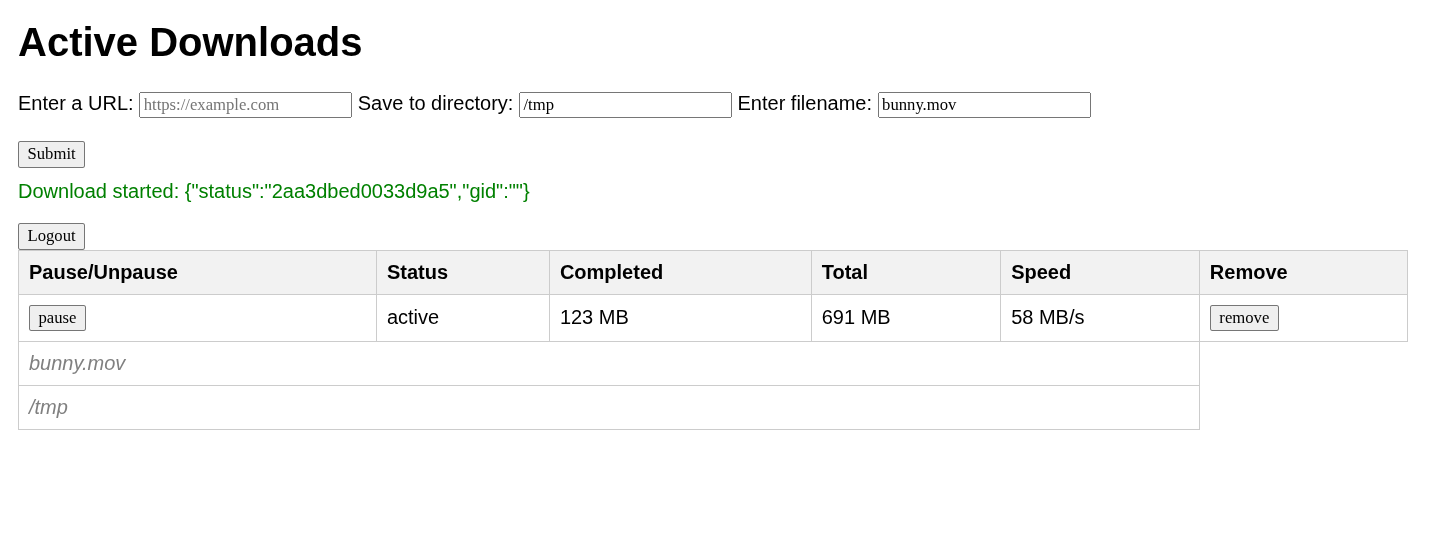
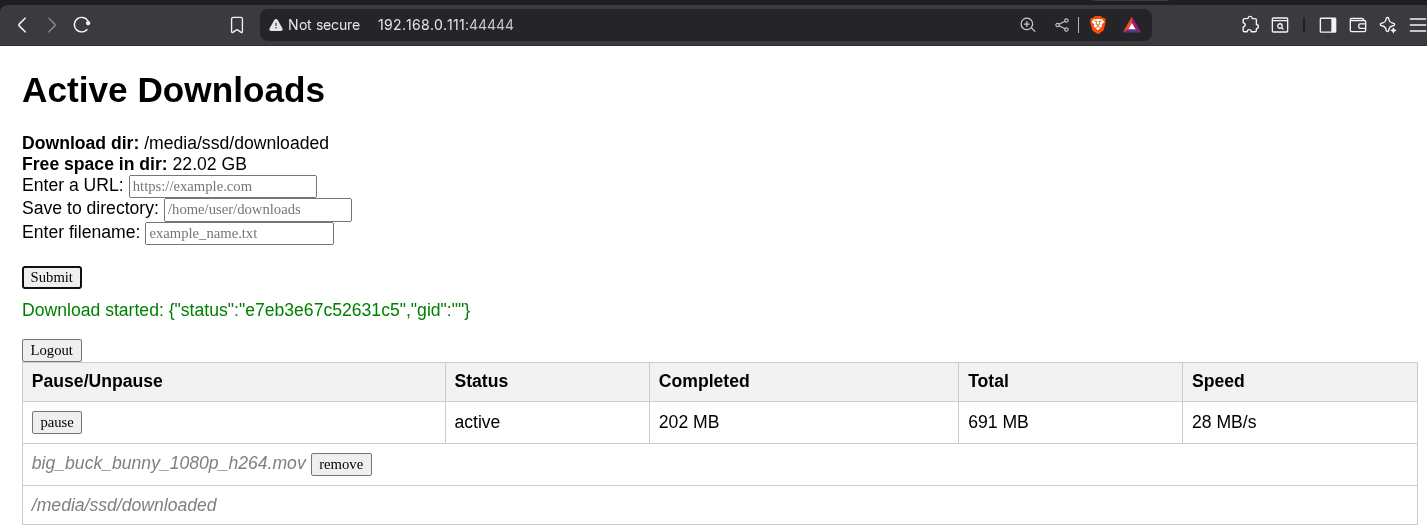
every input field in html is in newline

diff --git a/internal/server/index.html b/internal/server/index.html
@@ -45,6 +45,9 @@
 
         <!-- Main app (hidden until logged in) -->
         <div id="appArea" style="display: none">
+            <div id="dirPath">Dir path:</div>
+            <div id="freeSpace">Free space:</div>
+
             <form id="downloadForm">
                 <label for="url">Enter a URL:</label>
                 <input
@@ -54,6 +57,7 @@
                     placeholder="https://example.com"
                     required
                 />
+                <br />
 
                 <label for="dir">Save to directory:</label>
                 <input
@@ -63,6 +67,7 @@
                     placeholder="/home/user/downloads"
                 />
 
+                <br />
                 <label for="filename">Enter filename:</label>
                 <input
                     type="text"
@@ -85,7 +90,6 @@
                         <th>Completed</th>
                         <th>Total</th>
                         <th>Speed</th>
-                        <th>Remove</th>
                     </tr>
                 </thead>
                 <tbody></tbody>
@@ -118,7 +122,9 @@
                         // session is valid
                         showApp();
                         fetchDownloads();
+                        getDownloadsDir();
                         setInterval(fetchDownloads, 3000);
+                        setInterval(getDownloadsDir, 3000);
                     } else {
                         // session invalid, this will hide app area
                         showLogin();
@@ -148,6 +154,7 @@
                         if (res.ok) {
                             showApp();
                             fetchDownloads();
+                            getDownloadsDir();
 
                             // Poll every 3s once logged in
                             setInterval(fetchDownloads, 3000);
@@ -372,7 +379,6 @@
                             <td>${d.completedLength}</td>
                             <td>${d.totalLength}</td>
                             <td>${d.downloadSpeed}</td>
-                            <td><button onclick="removeDownload('${d.gid}')">remove</button></td>
                         `;
 
                         // Second row (filenames)
@@ -380,6 +386,7 @@
                         fileRow.innerHTML = `
                             <td colspan="5" style="font-style: italic; color: gray;">
                                 ${filenames}
+                                <button onclick="removeDownload('${d.gid}')">remove</button>
                             </td>
                         `;
 
@@ -395,6 +402,27 @@
                         tbody.appendChild(fileRow);
                         tbody.appendChild(dirRow);
                     });
+                } catch (err) {
+                    console.error("Error fetching downloads:", err);
+                }
+            }
+
+            async function getDownloadsDir() {
+                try {
+                    const response = await fetch(`${API_BASE}/getdownloaddir`, {
+                        credentials: "include",
+                    });
+
+                    if (response.status === 403 || response.status === 401) {
+                        showLogin();
+                        return;
+                    }
+                    const data = await response.json();
+                    document.getElementById("dirPath").innerHTML =
+                        `<span><strong> Download dir: </strong> ${data.dir_path}  </span>`;
+
+                    document.getElementById("freeSpace").innerHTML =
+                        `<span><strong> Free space in dir: </strong> ${data.free_space}  </span>`;
                 } catch (err) {
                     console.error("Error fetching downloads:", err);
                 }

diff --git a/internal/ariarpc/client.go b/internal/ariarpc/client.go
@@ -27,12 +27,12 @@ func NewAriaClient(rpcSecret string) *AriaClient {
 	return ariaClient
 }
 
-func (ac *AriaClient) CreateSingleMethodRequest(method string, params []interface{}) *JsonRpcRequest {
+func (ac *AriaClient) CreateSingleMethodRequest(method string, params []any) *JsonRpcRequest {
 	reqBody := &JsonRpcRequest{
 		Jsonrpc: "2.0",
 		Method:  method,
 		ID:      "goaria",
-		Params:  append([]interface{}{"token:" + ac.RpcSecret}, params...),
+		Params:  append([]any{"token:" + ac.RpcSecret}, params...),
 	}
 	return reqBody
 
@@ -198,33 +198,38 @@ func (ac *AriaClient) GetRelevantDownloads() ([]DownloadData, error) {
 
 func (ac *AriaClient) AddDownload(url, filename, dir string) (*JsonRpcResponse, error) {
 
-	uris := []string{url} // list of URIs
+	var params []any // all params
 
-	var params []interface{} // all params
+	var err error
 
-	var options map[string]interface{} // options inside params
+
+	if err != nil {
+		return nil, err
+	}
+	uris := []string{url}      // list of URIs
+	var options map[string]any // options inside params
 
 	if filename != "" && dir != "" {
-		options = map[string]interface{}{ // options map
+		options = map[string]any{ // options map
 			"out": filename, // force the download filename
 			"dir": dir,
 		}
-		params = []interface{}{uris, options}
+		params = []any{uris, options}
 
 	} else if filename != "" {
-		options = map[string]interface{}{ // options map
+		options = map[string]any{ // options map
 			"out": filename, // force the download filename
 		}
-		params = []interface{}{uris, options}
+		params = []any{uris, options}
 
 	} else if dir != "" {
-		options = map[string]interface{}{ // options map
+		options = map[string]any{ // options map
 			"dir": dir,
 		}
-		params = []interface{}{uris, options}
+		params = []any{uris, options}
 
 	} else {
-		params = []interface{}{uris}
+		params = []any{uris}
 	}
 
 	fmt.Println(params)

diff --git a/internal/handlers/handlers.go b/internal/handlers/handlers.go
@@ -7,7 +7,10 @@ import (
 	"goaria/internal/session"
 	"log"
 	"net/http"
+	"os"
 	"strconv"
+
+	"golang.org/x/sys/unix"
 )
 
 type HandlerManager struct {
@@ -205,9 +208,9 @@ func (hm *HandlerManager) DownloadHandler(w http.ResponseWriter, r *http.Request
 
 	dir := r.FormValue("dir")
 	filename := r.FormValue("filename")
-	fmt.Println(filename)
-	fmt.Println(url)
-	fmt.Println(dir)
+	// fmt.Println(filename)
+	// fmt.Println(url)
+	// fmt.Println(dir)
 
 	jsonRpcResp, err := hm.AriaClient.AddDownload(url, filename, dir)
 	if err != nil {
@@ -229,4 +232,39 @@ func (hm *HandlerManager) DownloadHandler(w http.ResponseWriter, r *http.Request
 	if err := json.NewEncoder(w).Encode(responsePayload); err != nil {
 		log.Printf("Error encoding response payload: %v", err)
 	}
+}
+
+type DirData struct {
+	FreeSpace string `json:"free_space"`
+	DirPath   string `json:"dir_path"`
+}
+
+func (hm *HandlerManager) GetDownloadDirHandler(w http.ResponseWriter, r *http.Request) {
+	dir, err := os.Getwd()
+	if err != nil {
+		http.Error(w, err.Error(), http.StatusInternalServerError)
+		return
+	}
+	var stat unix.Statfs_t
+	err = unix.Statfs(dir, &stat)
+
+	if err != nil {
+		http.Error(w, err.Error(), http.StatusInternalServerError)
+		return
+	}
+
+	free := stat.Bavail * uint64(stat.Bsize)
+	freeGB := fmt.Sprintf("%.02f GB", float64(free)/1_000_000_000.0)
+
+	dir_data := DirData{
+		FreeSpace: freeGB,
+		DirPath:   dir,
+	}
+
+	w.Header().Set("Content-Type", "application/json")
+
+	if err := json.NewEncoder(w).Encode(dir_data); err != nil {
+		log.Printf("Error encoding response payload: %v", err)
+	}
+
 }

diff --git a/internal/server/server.go b/internal/server/server.go
@@ -73,6 +73,10 @@ func (s *Server) setupMuxRoutes() {
 		middleware.SessionMiddleware(http.HandlerFunc(s.hm.RemoveDownloadHandler)),
 	)
 
+	s.mux.Handle("GET /getdownloaddir",
+		middleware.SessionMiddleware(http.HandlerFunc(s.hm.GetDownloadDirHandler)),
+	)
+
 }
 
 // Runs server in separate goroutine, if done channel receives we know that
